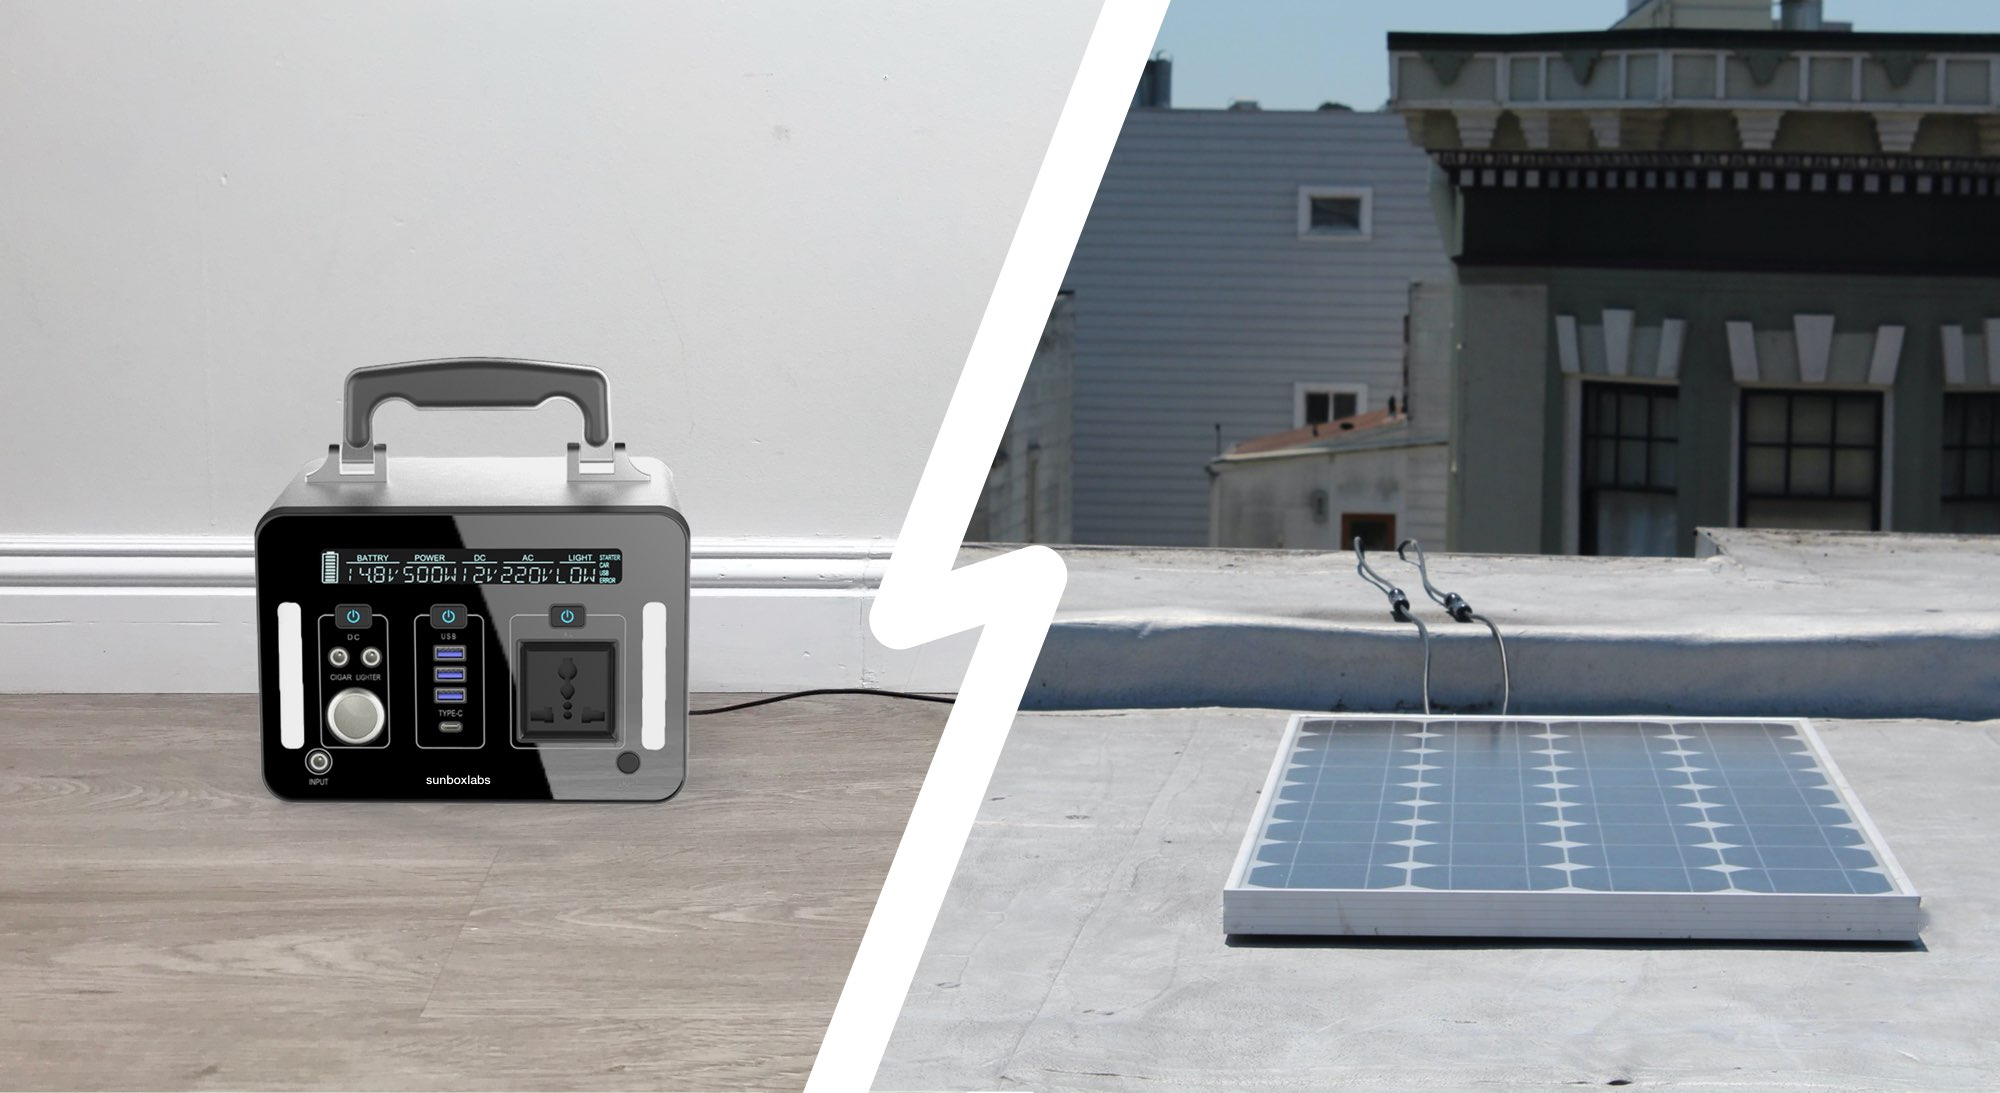
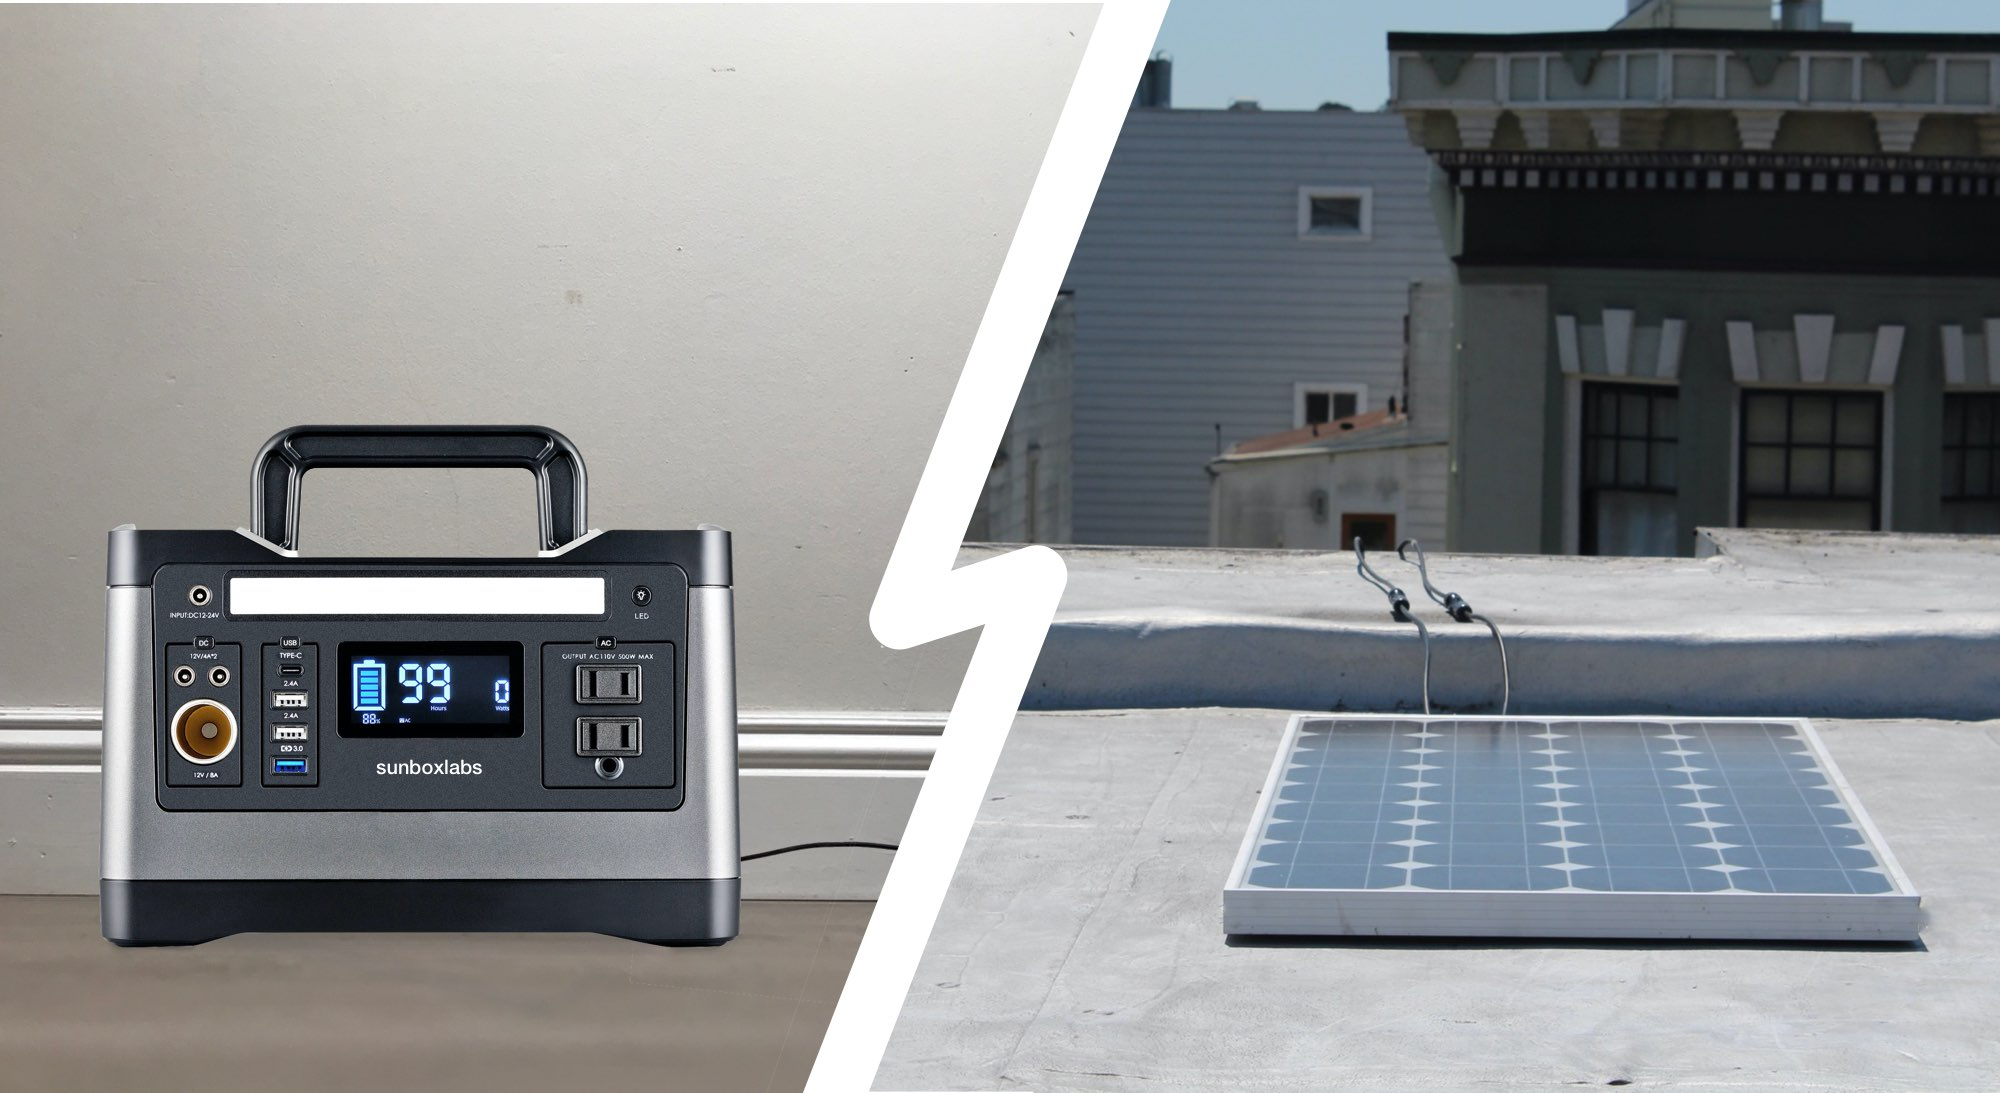
rebuilding site Mon Jun  8 09:36:10 PDT 2020

diff --git a/docs/solar-kit/index.html b/docs/solar-kit/index.html
@@ -198,7 +198,7 @@ With a standard plug.</p>
 <hr>
 <h4 id="a-possible-solution">A possible solution</h4>
 <p>A windowsill solar system bought we install ourselves solves both problems at once: Renters don’t need permission from their landlords to place things on their windowsill and rooftops if it’s not altering the building, and it’s a one-click, direct purchase with no regulation as long as it’s not tied to the grid (which this one is designed not to be). Two birds with one stone. This makes the solar buying process more like buying a consumer electronic.</p>
-<p><img src="img/header2.jpg" /></p>
+<p><img src="img/header.jpg" /></p>
 <p>Questions remain. Can this system make any meaningful energy? Does it make financial sense?</p>
 <hr>
 <h4 id="the-systems-components">The System&rsquo;s Components</h4>

diff --git a/content/solar-kit/_index.md b/content/solar-kit/_index.md
@@ -105,7 +105,7 @@ We attempt to bypass both these problems by building a standalone solar power pl
 
 A windowsill solar system bought we install ourselves solves both problems at once: Renters don’t need permission from their landlords to place things on their windowsill and rooftops if it’s not altering the building, and it’s a one-click, direct purchase with no regulation as long as it’s not tied to the grid (which this one is designed not to be). Two birds with one stone. This makes the solar buying process more like buying a consumer electronic.
 
-<img src="img/header2.jpg" />
+<img src="img/header.jpg" />
 
 Questions remain. Can this system make any meaningful energy? Does it make financial sense?
 
